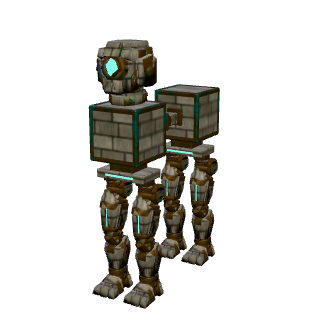
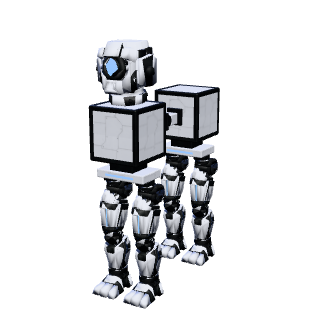
プリセットを用途別（基本・人型・車輪型・四つ足）＋ランダムに整理
Claude-Session: https://claude.ai/code/session_01ASZHxoBQdYv9uujia31bLh

Changed region(s): [[0.2812, 0.125, 0.6875, 0.9688]]

diff --git a/index.html b/index.html
@@ -157,6 +157,7 @@
   .swapCards.presets { grid-template-columns: repeat(5, 1fr); }
   .swapCards.presets img { height: 96px; }
   .swapCard span.ai { color: var(--warn); }
+  .randomArt { display: grid; place-items: center; height: 96px; border-radius: 7px; background: #2a2e33; font-size: 40px; font-weight: 700; color: var(--muted); }
   .swapResult { margin: 10px 2px 0; font-size: 12px; color: var(--muted); min-height: 1.5em; line-height: 1.5; }
   .swapResult b { color: var(--ink); }
   @media (prefers-reduced-motion: reduce) { .swapTray { animation: none; } }
@@ -176,7 +177,7 @@
     .editPanel .swapCards { grid-template-columns: repeat(4, 1fr); max-height: 30vh; }
     .swapCards.presets { display: flex; overflow-x: auto; scroll-snap-type: x mandatory; padding-bottom: 4px; }
     .swapCards.presets .swapCard { flex: 0 0 30%; scroll-snap-align: start; }
-    .swapCards.presets img { height: 70px; }
+    .swapCards.presets img, .randomArt { height: 70px; }
     .hintText { font-size: 12px; padding: 9px 4px; }
     .swapToast { bottom: auto; top: 92px; font-size: 12px; }
     .rotNote { display: none; }
@@ -3065,12 +3066,14 @@ const ARM_SETS = [   // 肩の先の 六角M の口
   { id: "bossFist", label: "番人の腕（拳）", note: "上腕・前腕・拳", chain: ["BossUpperArm", "BossForearm", "BossFist"] },
   { id: "bossPalm", label: "番人の腕（掌）", note: "上腕・前腕・掌", chain: ["BossUpperArmB", "BossForearmB", "BossPalm"] },
 ];
-const PRESETS = [   // はじめのロボット（ai：見た目に AI 生成のパーツを使っているか。審査対象外の申告のため表示する）
-  { id: "human", label: "人型", note: "自作のパーツだけ", ai: 0, theme: "WHITE" },
-  { id: "wheel", label: "車輪型", note: "自作のパーツだけ", ai: 0, theme: "WHITE" },
-  { id: "golemH", label: "古代ゴーレム", note: "見た目はAI生成", ai: 2, theme: "ANCIENT" },
-  { id: "boss", label: "塔の番人", note: "見た目はAI生成", ai: 2, theme: "ANCIENT" },
-  { id: "quad", label: "四つ足", note: "脚はAI生成", ai: 1, theme: "ANCIENT" },
+// はじめのロボット：用途（体のつくり）が違うものだけを並べる。ゴーレム・番人は人型の見た目違いなので、プリセットにはせず付け替えで出す（本人 11/11）
+// ai：見た目に AI 生成のパーツを使っているか（審査対象外の申告のため表示する）
+const PRESETS = [
+  { id: "mini", label: "基本", note: "コア1つ・いちばん小さい", ai: 0, theme: "WHITE" },
+  { id: "human", label: "人型", note: "二本足で歩く", ai: 0, theme: "WHITE" },
+  { id: "wheel", label: "車輪型", note: "車輪で走る", ai: 0, theme: "WHITE" },
+  { id: "quad", label: "四つ足", note: "胴をつないで脚を増やす（脚はAI生成）", ai: 1, theme: "WHITE" },
+  { id: "random", label: "ランダム", note: "脚・腕・頭・見た目を選ぶ（AI生成も含む）", ai: 1, random: true },
 ];
 let preset = "human";
 const KIND_INFO = {
@@ -3195,7 +3198,7 @@ function initSwap() {
   document.getElementById("hintLook").addEventListener("click", openLook);
   document.getElementById("hintReset").addEventListener("click", () => {
     if (edit || swapAnim) return;
-    startPreset(preset); clunk(0.8); toast("最初の形に戻しました");
+    startPreset(preset, presetSnap); clunk(0.8); toast("最初の形に戻しました");
   });
   document.getElementById("hintPreset").addEventListener("click", openPresets);
   document.getElementById("swapClose").addEventListener("click", closeLook);
@@ -3224,7 +3227,7 @@ function initSwap() {
 function makePresetThumbs() {   // 組み上がったロボットを、そのまま絵にする（presets/*.png を作るときだけ使う。ふだんは画像を読む）
   const out = {};
   for (const p of PRESETS) {
-    if (!RECIPES[p.id]) continue;
+    if (!RECIPES[p.id] || p.random) continue;
     buildRecipe(p.id); if (p.theme) applyTheme(p.theme);
     const bp = buildGroup.parent, vis = buildGroup.visible; thumbScene.add(buildGroup); buildGroup.visible = true;
     buildGroup.traverse(o => { if (o.userData.isMark) o.visible = false; });
@@ -3239,10 +3242,11 @@ function openPresets() {
   if (trayOpen) closeLook();
   const box = document.getElementById("presetCards"); box.innerHTML = "";
   for (const p of PRESETS) {
-    if (!RECIPES[p.id]) continue;
-    const b = document.createElement("button"); b.type = "button"; b.className = "swapCard" + (p.id === preset ? " now" : "");
+    if (!RECIPES[p.id] && !p.random) continue;
+    const b = document.createElement("button"); b.type = "button"; b.className = "swapCard" + (p.id === preset && !p.random ? " now" : "");
     b.dataset.id = p.id;
-    b.innerHTML = `<img alt="" src="presets/${p.id}.png"><b>${p.label}</b><span class="${p.ai ? "ai" : ""}">${p.note}</span>`;
+    b.innerHTML = (p.random ? `<span class="randomArt" aria-hidden="true">?</span>` : `<img alt="" src="presets/${p.id}.png">`) +
+      `<b>${p.label}</b><span class="${p.ai ? "ai" : ""}">${p.note}</span>`;
     b.addEventListener("click", () => { startPreset(p.id); closePresets(); });
     box.appendChild(b);
   }
@@ -3254,13 +3258,40 @@ function closePresets() {
   document.getElementById("presetTray").hidden = true;
   document.body.classList.remove("trayOpen"); trayOpen = null; frameSwap();
 }
-function startPreset(id) {
+// ランダム：体のつくり（人型・基本）を選び、脚・腕・頭をそれぞれの口に合うものから選ぶ（左右はそろえる）。世界観も選ぶ
+// 何でも好きにつなぐと横向きの脚や逆さの腕になり「壊れている」と見えるので、替えられる所ごとに選ぶ（Claude 11/11）
+function buildRandom() {
+  const pick = a => a[Math.floor(Math.random() * a.length)];
+  buildRecipe(pick(["human", "human", "mini"]));
+  const hip = hipInst();
+  if (hip) { const t = hip.target; removeInst(hip); attachSet(t, pick(LEG_SETS.filter(setReady))); }
+  const arm = pick(ARM_SETS.filter(setReady));
+  for (const sh of insts.filter(i => /Shoulder/.test(i.key))) {
+    const s = sh.sockets.find(x => x.userData.rs.shape === "HEX" && x.userData.rs.size === "M");
+    if (!s) continue;
+    const old = editRootAt(s); if (old) removeInst(old);
+    attachSet(s, arm);
+  }
+  const head = insts.find(i => /Head/.test(i.key) && i.target);
+  if (head) {
+    const t = head.target, want = t.userData.rs;
+    const heads = Object.keys(templates).filter(k => !isOld(k) && catOf(k) === "head" && templates[k].probe.some(x => x.userData.rs.shape === want.shape && x.userData.rs.size === want.size));
+    removeInst(head); attachRaw(t, pick(heads));
+  }
+  applyTheme(pick(Object.keys(THEMES)));
+}
+let presetSnap = null;
+function startPreset(id, snap) {
   preset = id;
   stopAutoMove();
   buildGroup.position.set(0, 0, 0); buildGroup.quaternion.identity(); phys = null;
   controls.target.set(0, 1, 0); camera.position.set(3, 3, 12);
-  buildRecipe(id);
-  const P = PRESETS.find(x => x.id === id); if (P && P.theme) applyTheme(P.theme);
+  const P = PRESETS.find(x => x.id === id);
+  if (snap) loadBuild(snap);   // 「最初の形に戻す」：選んだときの形（ランダムでも同じもの）に戻す
+  else if (P && P.random) buildRandom();
+  else buildRecipe(id);
+  if (P && P.theme && !snap) applyTheme(P.theme);
+  presetSnap = serializeBuild();
   refreshMarks(); commit();
   document.getElementById("hintReset").hidden = true;
   // はじめの2秒：胴から外へ、つながる順にパーツが付いていく（規格でつながる様子を最初に見せる）
